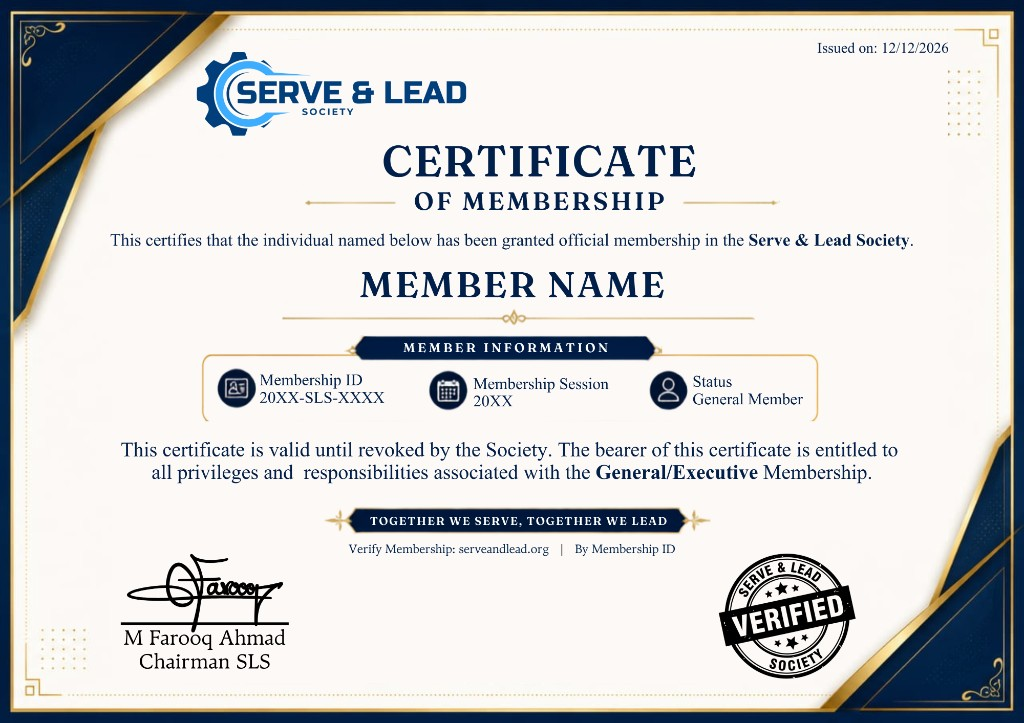
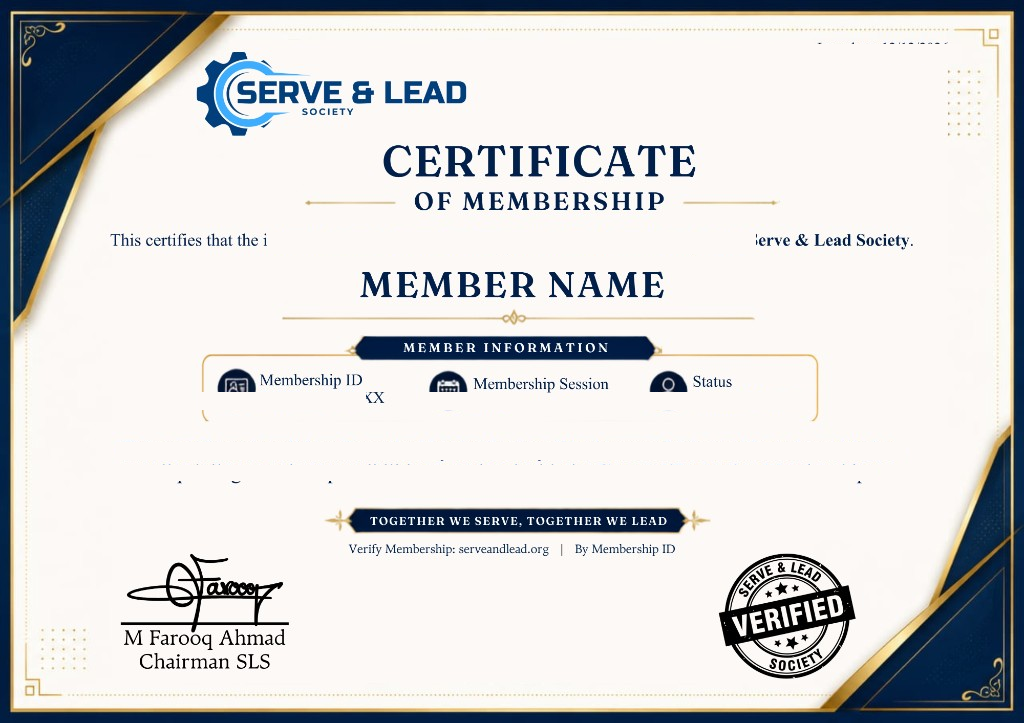
Fix membership certificate placeholder overlap with pre-cleaned background

diff --git a/frontend/src/pages/MembershipCertificateExact.jsx b/frontend/src/pages/MembershipCertificateExact.jsx
@@ -1,4 +1,4 @@
-import membershipBg from "../assets/membership-cert-bg.png";
+import membershipBg from "../assets/membership-cert-bg-clean.png";
 import {
   FONTS,
   CHAIRMAN_NAME,
@@ -8,13 +8,7 @@ import {
 
 export const MEMBERSHIP_CANVAS = { width: 1024, height: 723 };
 
-const T = {
-  navy: "#002147",
-  paper: "#FDF9F6",
-  muted: "#5b6b85",
-};
-
-const BG_PATH = membershipBg;
+const T = { navy: "#002147", muted: "#5b6b85" };
 
 export function isMembershipCertificate(data) {
   if (!data) return false;
@@ -46,22 +40,10 @@ function resolveMembershipProps(data) {
   };
 }
 
-/** Tiny paper backing only behind glyph bounds — no full-width bands */
-function TextSlot({ children, boxStyle, textStyle }) {
+function Field({ children, style }) {
   return (
-    <div style={{ position: "absolute", zIndex: 2, display: "flex", justifyContent: "center", ...boxStyle }}>
-      <span
-        style={{
-          display: "inline-block",
-          background: T.paper,
-          color: T.navy,
-          margin: 0,
-          boxSizing: "border-box",
-          ...textStyle,
-        }}
-      >
-        {children}
-      </span>
+    <div style={{ position: "absolute", zIndex: 2, color: T.navy, margin: 0, boxSizing: "border-box", ...style }}>
+      {children}
     </div>
   );
 }
@@ -79,73 +61,92 @@ export default function MembershipCertificateExact({ data, id = "cert-inner" }) 
         overflow: "hidden",
         boxSizing: "border-box",
         fontFamily: FONTS.body,
-        backgroundColor: T.paper,
-        backgroundImage: `url(${BG_PATH})`,
+        backgroundColor: "#FDF9F6",
+        backgroundImage: `url(${membershipBg})`,
         backgroundSize: "100% 100%",
         backgroundRepeat: "no-repeat",
         backgroundPosition: "center",
       }}
     >
-      <TextSlot
-        boxStyle={{ top: "7.05%", right: "3.8%", justifyContent: "flex-end", width: "22%" }}
-        textStyle={{ fontSize: 11, fontWeight: 600, textAlign: "right", whiteSpace: "nowrap", padding: "0 2px" }}
+      <Field
+        style={{
+          top: "6.64%",
+          right: "7.5%",
+          fontSize: 11,
+          fontWeight: 600,
+          textAlign: "right",
+          whiteSpace: "nowrap",
+        }}
       >
         Issued on: {props.issueDate}
-      </TextSlot>
+      </Field>
 
-      <TextSlot
-        boxStyle={{ top: "32.95%", left: 0, right: 0 }}
-        textStyle={{
+      <Field
+        style={{
+          top: "32.92%",
+          left: "29.4%",
+          width: "42%",
+          textAlign: "center",
           fontFamily: FONTS.heading,
           fontSize: 30,
           fontWeight: 800,
           letterSpacing: "0.02em",
           lineHeight: 1.1,
-          padding: "0 6px",
-          textAlign: "center",
-          maxWidth: "78%",
         }}
       >
         {props.memberName}
-      </TextSlot>
+      </Field>
 
-      <TextSlot
-        boxStyle={{ top: "48.25%", left: "50%", transform: "translateX(-50%)", width: "22%" }}
-        textStyle={{ fontSize: 10, fontWeight: 600, color: T.muted, padding: "0 3px", textAlign: "center" }}
-      >
-        Membership Session
-      </TextSlot>
-
-      <TextSlot
-        boxStyle={{ top: "54.55%", left: "8.6%", width: "24.4%" }}
-        textStyle={{ fontFamily: FONTS.heading, fontSize: 12, fontWeight: 700, padding: "0 4px", textAlign: "center" }}
+      <Field
+        style={{
+          top: "55.3%",
+          left: "20.9%",
+          width: "12.1%",
+          textAlign: "center",
+          fontFamily: FONTS.heading,
+          fontSize: 12,
+          fontWeight: 700,
+        }}
       >
         {props.memberId}
-      </TextSlot>
-      <TextSlot
-        boxStyle={{ top: "54.55%", left: "50%", transform: "translateX(-50%)", width: "14.5%" }}
-        textStyle={{ fontFamily: FONTS.heading, fontSize: 12, fontWeight: 700, padding: "0 3px", textAlign: "center" }}
+      </Field>
+      <Field
+        style={{
+          top: "55.3%",
+          left: "41.6%",
+          width: "8.8%",
+          textAlign: "center",
+          fontFamily: FONTS.heading,
+          fontSize: 12,
+          fontWeight: 700,
+        }}
       >
         {props.session}
-      </TextSlot>
-      <TextSlot
-        boxStyle={{ top: "54.55%", left: "67%", width: "24.4%" }}
-        textStyle={{ fontFamily: FONTS.heading, fontSize: 12, fontWeight: 700, padding: "0 4px", textAlign: "center" }}
+      </Field>
+      <Field
+        style={{
+          top: "55.3%",
+          left: "63.1%",
+          width: "15.6%",
+          textAlign: "center",
+          fontFamily: FONTS.heading,
+          fontSize: 12,
+          fontWeight: 700,
+        }}
       >
         {props.statusLabel}
-      </TextSlot>
+      </Field>
 
-      <TextSlot
-        boxStyle={{ top: "61.2%", left: "13%", width: "74%" }}
-        textStyle={{
-          display: "block",
-          width: "100%",
+      <Field
+        style={{
+          top: "61.8%",
+          left: "12.3%",
+          width: "75.2%",
+          textAlign: "center",
           fontFamily: FONTS.body,
           fontSize: 10.5,
           lineHeight: 1.65,
           fontWeight: 500,
-          padding: "2px 6px",
-          textAlign: "center",
           overflowWrap: "break-word",
           wordWrap: "break-word",
         }}
@@ -153,7 +154,7 @@ export default function MembershipCertificateExact({ data, id = "cert-inner" }) 
         This certificate is valid until revoked by the Society. The bearer of this certificate is entitled to all
         privileges and responsibilities associated with the{" "}
         <strong style={{ fontWeight: 800 }}>{props.membershipType}</strong>.
-      </TextSlot>
+      </Field>
 
       <span style={{ position: "absolute", opacity: 0, pointerEvents: "none", fontSize: 1 }}>
         {CHAIRMAN_NAME} {CHAIRMAN_TITLE}
